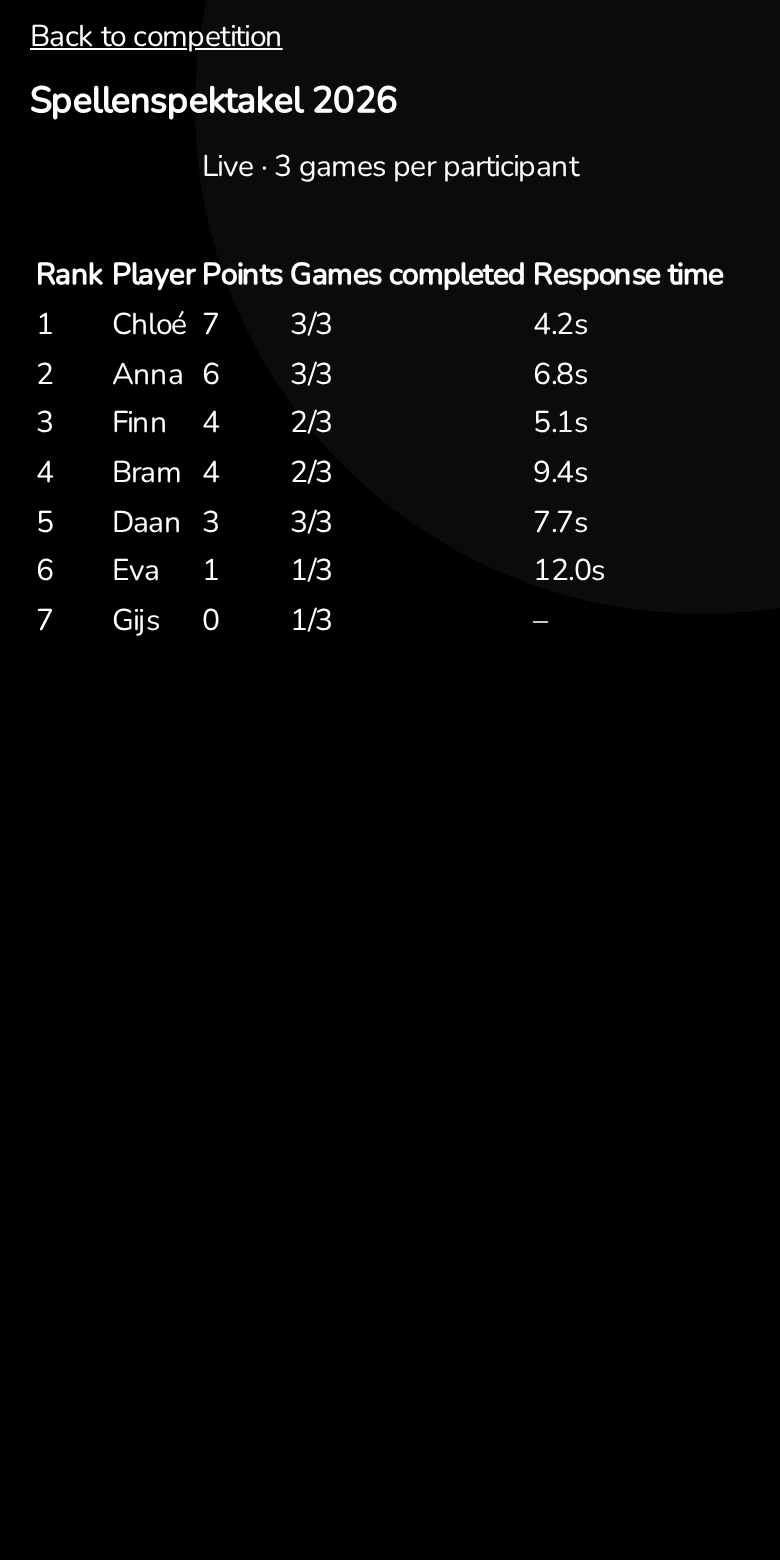
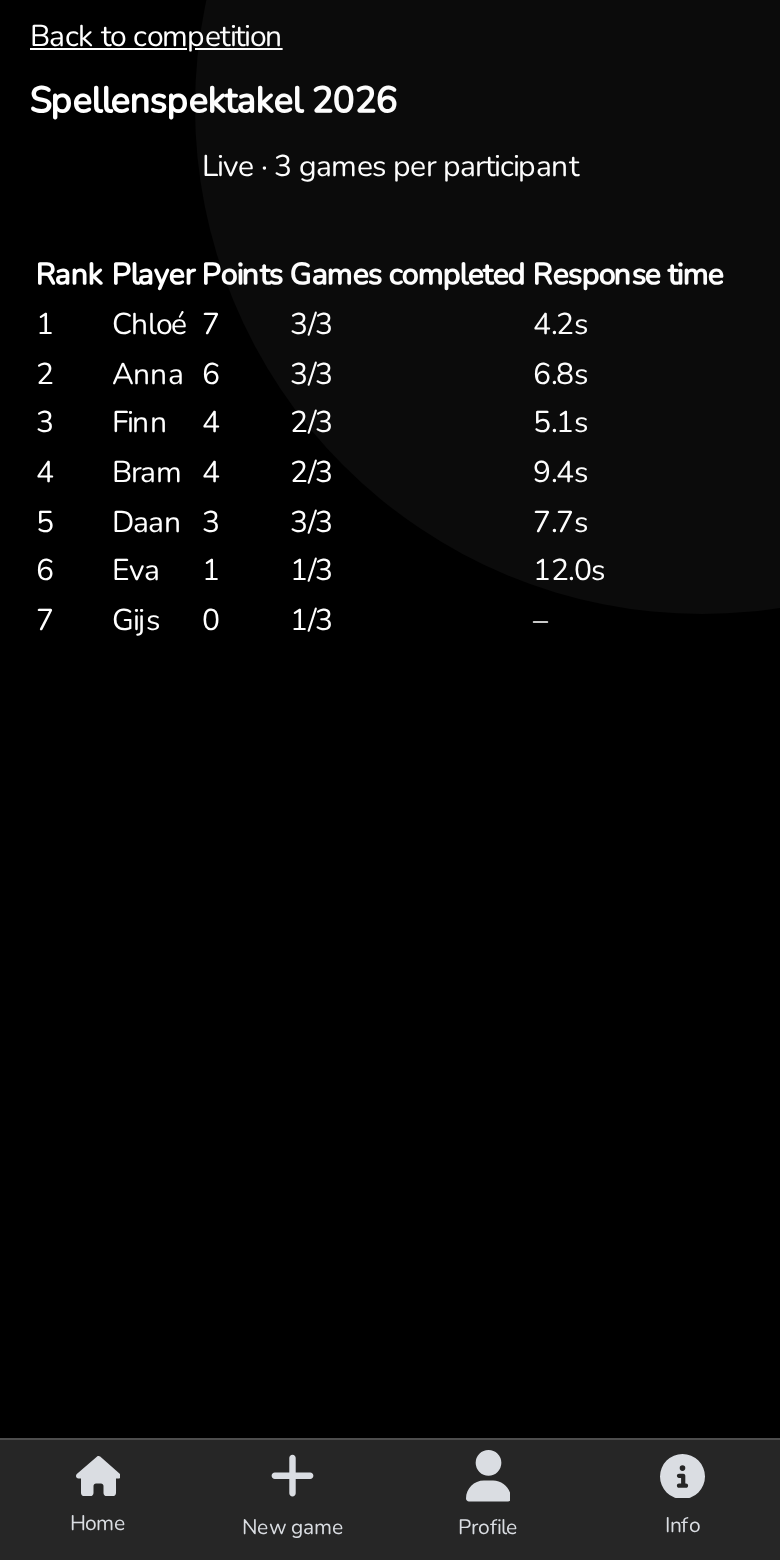
docs(homework): show the app's bottom tab bar in the 004a screenshots

Changed region(s): [[0.0, 0.9231, 1.0, 1.0]]

diff --git a/docs/presentation-2026-10-20/index.html b/docs/presentation-2026-10-20/index.html
@@ -150,7 +150,7 @@
         <figure class="phone"><img src="img/4-player-playing.png" alt="Player screen during play showing own progress"><figcaption>Player: my progress</figcaption></figure>
         <figure class="phone"><img src="img/5-admin-stand.png" alt="Admin live standings table"><figcaption>Organizer: live stand</figcaption></figure>
       </div>
-      <p class="fineprint">Real frontend code from the 004a branch, shown with mock data.</p>
+      <p class="fineprint">Real frontend code from the 004a branch, mock data. Bottom tabs added from the app's own tab bar.</p>
       <aside class="notes">Plain and utilitarian screens; the code is what I'm asking about. Also delivered: draft, edit, matching and invitations, game labels, automatic closure, reminders, onboarding.</aside>
     </section>
 
